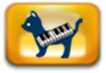
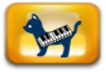
作曲画面の「ピアノ」ボタンと「けす」ボタンにマウスオーバーエフェクトを実装

Changed region(s): [[0.1981, 0.1389, 0.7925, 0.8056]]

diff --git a/script/class/music/AnimalButton.js b/script/class/music/AnimalButton.js
@@ -7,12 +7,18 @@ var AnimalButton = enchant.Class.create(enchant.Sprite, {
 		enchant.Sprite.call(this, width, height);
 		// 以下, このクラスのプロパティ
 		this._isPush = false; // ボタンが押されているかどうか
+		this._touchButton = false; // ボタンをクリックしたかどうか
 		this._parent = null; // このクラスの親にあたるオブジェクト
 	},
 
 	// _isPushプロパティにブーリアン値をセットする
 	_setIsPush : function(isPush) {
 		this._isPush = isPush;
+	},
+
+	// _touchButtonプロパティにブーリアン値をセットする
+	_setTouchButton : function(touchButton) {
+		this._touchButton = touchButton;
 	},
 
 	// ボタンを押せる状態にする
@@ -35,16 +41,6 @@ var AnimalButton = enchant.Class.create(enchant.Sprite, {
 		this.opacity = 0.5;
 	},
 
-	// ボタンが「押されている」状態の時の色に変更する
-	_setOnImage : function() {
-		this.image = core.assets[MUSIC_PIANOCAT_ON._path];
-	},
-
-	// ボタンが「押されていない」状態の時の色に変更する
-	_setOffImage : function() {
-		this.image = core.assets[MUSIC_PIANOCAT_OFF._path];
-	},
-
 	// ボタンの全てのステータスを押せる状態に合わせる
 	_setCanPush : function() {
 		this._setTouchEnable();
@@ -57,18 +53,33 @@ var AnimalButton = enchant.Class.create(enchant.Sprite, {
 		this._setTransparent();
 	},
 
+	// On, Off時の画像切り替え
+	_setOnOffImage : function(state) {
+		if(state === "on") {
+			this.image = core.assets[MUSIC_PIANOCAT_ON._path];
+		} else {
+			this.image = core.assets[MUSIC_PIANOCAT_OFF._path];
+		}
+	},
+	// 押下, 非押下時の画像切り替え
+	_setPushImage : function(state) {
+		if(state === "push") {
+			this.image = core.assets[MUSIC_PIANOCAT_PUSH._path];
+		} else {
+			this.image = core.assets[MUSIC_PIANOCAT_OFF._path];
+		}
+	},
+
 	// クリック時の処理
 	ontouchend : function(event) {
 		var canRemoveAnimal = this._parent._getModosuButtonState();
 		var canPutAnimal = this._isPush;
-
 		if(canRemoveAnimal === true && canPutAnimal === false) {
 			this._parent._setModosuButtonState(false);
 			canRemoveAnimal = false;
 			this._parent._setModosuButtonImage("off");
 			this._setIsPush(true);
 			canPutAnimal = true;
-			this._setOnImage();
 		} else if(canPutAnimal === true) {
 			this._setIsPush(false);
 			canPutAnimal = false;
@@ -79,22 +90,41 @@ var AnimalButton = enchant.Class.create(enchant.Sprite, {
 
 		// ボタンを押すごとに状態を変える
 		if(canPutAnimal === true) {
-			this._setOnImage();
+			this._setPushImage("push");
 		} else if(canPutAnimal === false) {
-			this._setOffImage();
+			this._setOnOffImage("off");
 		}
+		this._setTouchButton(true);
 	},
 
 	// 定期処理
 	onenterframe : function() {
 		var canPlay = this._parent._getPlayButtonState();
-
 		if(canPlay === true) {
 			// 再生状態の時はボタンを押せない状態に
+			this._setOnOffImage("off");
 			this._setCannotPush();
 		} else if(canPlay === false) {
 			// 再生状態でない時はボタンを押せる状態に
 			this._setCanPush();
+			var leftX = this.x;
+			var rightX = this.x + this.width;
+			var topY = this.y;
+			var bottomY = this.y + this.height;
+			var mOverX = mouseOverX(clientX, leftX, rightX, 0, 0);
+			var mOverY = mouseOverY(clientY, topY, bottomY, 0, 0);
+			if(mOverX === true && mOverY === true) {
+				if(this._touchButton === false) {
+					this._setOnOffImage("on");
+				}
+			} else {
+				if(this._isPush === true) {
+					this._setPushImage("push");
+				} else {
+					this._setOnOffImage("off");
+				}
+				this._setTouchButton(false);
+			}
 		}
 	}
 })

diff --git a/script/class/music/ModosuButton.js b/script/class/music/ModosuButton.js
@@ -5,12 +5,18 @@ var ModosuButton = enchant.Class.create(enchant.Sprite, {
 		enchant.Sprite.call(this, width, height);
 		// 以下, このクラスのプロパティ
 		this._isPush = false; // ボタンが押されているかどうか
+		this._touchButton = false; // ボタンをクリックしたかどうか
 		this._parent = null; // このクラスの親にあたるオブジェクト
 	},
 
 	// _isPushプロパティにブーリアン値をセットする
 	_setIsPush : function(isPush) {
 		this._isPush = isPush;
+	},
+
+	// _touchButtonプロパティにブーリアン値をセットする
+	_setTouchButton : function(touchButton) {
+		this._touchButton = touchButton;
 	},
 
 	// ボタンを押せる状態にする
@@ -33,16 +39,6 @@ var ModosuButton = enchant.Class.create(enchant.Sprite, {
 		this.opacity = 0.5;
 	},
 
-	// ボタンが「押されている」状態の時の色に変更する
-	_setOnImage : function() {
-		this.image = core.assets[MUSIC_REMOVEANIMAL_ON._path];
-	},
-
-	// ボタンが「押されていない」状態の時の色に変更する
-	_setOffImage : function() {
-		this.image = core.assets[MUSIC_REMOVEANIMAL_OFF._path];
-	},
-
 	// ボタンの全てのステータスを押せる状態に合わせる
 	_setCanPush : function() {
 		this._setTouchEnable();
@@ -53,6 +49,23 @@ var ModosuButton = enchant.Class.create(enchant.Sprite, {
 	_setCannotPush : function() {
 		this._setTouchDisable();
 		this._setTransparent();
+	},
+
+	// On, Off時の画像切り替え
+	_setOnOffImage : function(state) {
+		if(state === "on") {
+			this.image = core.assets[MUSIC_REMOVEANIMAL_ON._path];
+		} else {
+			this.image = core.assets[MUSIC_REMOVEANIMAL_OFF._path];
+		}
+	},
+	// 押下, 非押下時の画像切り替え
+	_setPushImage : function(state) {
+		if(state === "push") {
+			this.image = core.assets[MUSIC_REMOVEANIMAL_PUSH._path];
+		} else {
+			this.image = core.assets[MUSIC_REMOVEANIMAL_OFF._path];
+		}
 	},
 
 	// クリック時の処理
@@ -66,7 +79,6 @@ var ModosuButton = enchant.Class.create(enchant.Sprite, {
 			this._parent._setAnimalButtonImage("off");
 			this._setIsPush(true);
 			canRemoveAnimal = true;
-			this._setOnImage();
 		} else if(canRemoveAnimal === true) {
 			this._setIsPush(false);
 			canRemoveAnimal = false;
@@ -77,22 +89,41 @@ var ModosuButton = enchant.Class.create(enchant.Sprite, {
 
 		// ボタンを押すごとに状態を変える
 		if(canRemoveAnimal === true) {
-			this._setOnImage();
+			this._setPushImage("push");
 		} else if(canRemoveAnimal === false) {
-			this._setOffImage();
+			this._setOnOffImage("off");
 		}
+		this._setTouchButton(true);
 	},
 
 	// 定期処理
 	onenterframe : function() {
 		var canPlay = this._parent._getPlayButtonState();
-
 		if(canPlay === true) {
 			// 再生状態の時はボタンを押せない状態に
+			this._setOnOffImage("off");
 			this._setCannotPush();
 		} else if(canPlay === false) {
 			// 再生状態でない時はボタンを押せる状態に
 			this._setCanPush();
+			var leftX = this.x;
+			var rightX = this.x + this.width;
+			var topY = this.y;
+			var bottomY = this.y + this.height;
+			var mOverX = mouseOverX(clientX, leftX, rightX, 0, 0);
+			var mOverY = mouseOverY(clientY, topY, bottomY, 0, 0);
+			if(mOverX === true && mOverY === true) {
+				if(this._touchButton === false) {
+					this._setOnOffImage("on");
+				}
+			} else {
+				if(this._isPush === true) {
+					this._setPushImage("push");
+				} else {
+					this._setOnOffImage("off");
+				}
+				this._setTouchButton(false);
+			}
 		}
 	}
 })

diff --git a/script/define/image/defineMusicImage.js b/script/define/image/defineMusicImage.js
@@ -10,8 +10,10 @@ var MUSIC_MEASURENEXTBUTTON;
 var MUSIC_MEASUREPREVBUTTON;
 var MUSIC_PIANOCAT_OFF;
 var MUSIC_PIANOCAT_ON;
+var MUSIC_PIANOCAT_PUSH;
 var MUSIC_REMOVEANIMAL_OFF;
 var MUSIC_REMOVEANIMAL_ON;
+var MUSIC_REMOVEANIMAL_PUSH;
 var MUSIC_REMOVECURSOR;
 var MUSIC_REMOVEBOX;
 var MUSIC_ANIMAL;
@@ -27,10 +29,12 @@ var defineMusicImage = function() {
 	MUSIC_PLAYBUTTON_ON = new NormalImage("../image/music/button/playButtonOn.png", 110, 106);
 	MUSIC_MEASURENEXTBUTTON = new NormalImage("../image/music/button/next.png", 35, 41);
 	MUSIC_MEASUREPREVBUTTON = new NormalImage("../image/music/button/prev.png", 35, 41);
-	MUSIC_PIANOCAT_OFF = new NormalImage("../image/music/button/pianoCatOff.png", 106, 73);
-	MUSIC_PIANOCAT_ON = new NormalImage("../image/music/button/pianoCatOn.png", 106, 73);
-	MUSIC_REMOVEANIMAL_OFF = new NormalImage("../image/music/button/removeOff.png", 106, 73);
-	MUSIC_REMOVEANIMAL_ON = new NormalImage("../image/music/button/removeOn.png", 106, 73);
+	MUSIC_PIANOCAT_OFF = new NormalImage("../image/music/button/pianoCatOff.png", 106, 72);
+	MUSIC_PIANOCAT_ON = new NormalImage("../image/music/button/pianoCatOn.png", 106, 72);
+	MUSIC_PIANOCAT_PUSH = new NormalImage("../image/music/button/pianoCatPush.png", 106, 72);
+	MUSIC_REMOVEANIMAL_OFF = new NormalImage("../image/music/button/removeButtonOff.png", 106, 72);
+	MUSIC_REMOVEANIMAL_ON = new NormalImage("../image/music/button/removeButtonOn.png", 106, 72);
+	MUSIC_REMOVEANIMAL_PUSH = new NormalImage("../image/music/button/removeButtonPush.png", 106, 72);
 	MUSIC_REMOVECURSOR = new NormalImage("../image/music/remove/removeCursor.png", 60, 45);
 	MUSIC_REMOVEBOX = new NormalImage("../image/music/remove/removeBox.png", 60, 45);
 

diff --git a/script/class/music/MusicMediator.js b/script/class/music/MusicMediator.js
@@ -34,9 +34,11 @@ var MusicMediator = enchant.Class.create({
 
 	_setAnimalButtonImage : function(imageString) {
 		if(imageString === "off") {
-			this._animalButton._setOffImage();
+			this._animalButton._setOnOffImage("off");
 		} else if(imageString === "on") {
-			this._animalButton._setOnImage();
+			this._animalButton._setOnOffImage("on");
+		} else if(imageString === "push") {
+			this._animalButton._setPushImage("push");
 		}
 	},
 
@@ -51,9 +53,11 @@ var MusicMediator = enchant.Class.create({
 
 	_setModosuButtonImage : function(imageString) {
 		if(imageString === "off") {
-			this._modosuButton._setOffImage();
+			this._modosuButton._setOnOffImage("off");
 		} else if(imageString === "on") {
-			this._modosuButton._setOnImage();
+			this._modosuButton._setOnOffImage("on");
+		} else if(imageString === "push") {
+			this._modosuButton._setPushImage("push");
 		}
 	},
 

diff --git a/script/define/image/preloadMusicImage.js b/script/define/image/preloadMusicImage.js
@@ -11,8 +11,10 @@ var preloadMusicImage = function() {
 	core.preload(MUSIC_MEASUREPREVBUTTON._path);
 	core.preload(MUSIC_PIANOCAT_OFF._path);
 	core.preload(MUSIC_PIANOCAT_ON._path);
+	core.preload(MUSIC_PIANOCAT_PUSH._path);
 	core.preload(MUSIC_REMOVEANIMAL_OFF._path);
 	core.preload(MUSIC_REMOVEANIMAL_ON._path);
+	core.preload(MUSIC_REMOVEANIMAL_PUSH._path);
 	core.preload(MUSIC_REMOVECURSOR._path);
 	core.preload(MUSIC_REMOVEBOX._path);
 	core.preload(MUSIC_ANIMAL["cat"]._path);
